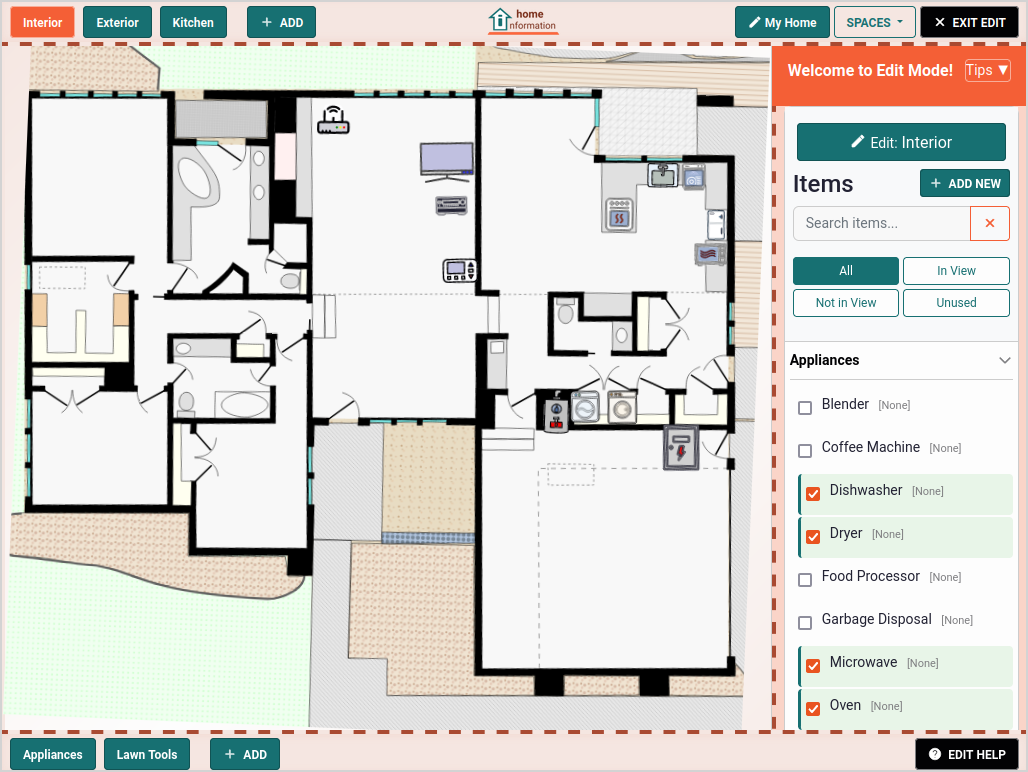
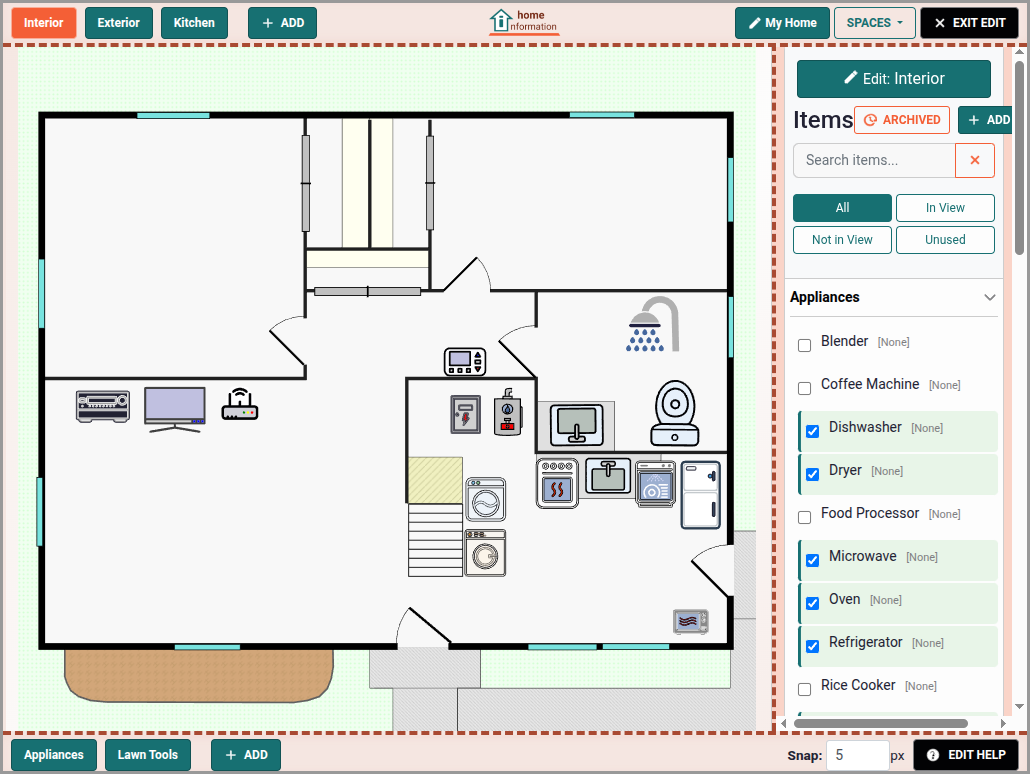
Updated screenshots and markdown files for new SVG background editor.

diff --git a/docs/Editing.md b/docs/Editing.md
@@ -1,8 +1,8 @@
 <img src="../src/hi/static/img/hi-logo-w-tagline-197x96.png" alt="Home Information Logo" width="128">
 
-# Layout Editor
+# Item Layout Editor
 
-This page provides an overview of the editing mode features and basic operations. Editing mode is not the main mode used day-to-day. It is only used to initially setup you home and then occasionally to adjust the layout and add/remove items.
+This page provides an overview of the item editing mode features and basic operations. Editing mode is not the main mode used day-to-day. It is only used to initially setup you home and then occasionally to adjust the layout and add/remove items.
 
 You enter edit mode with the "EDIT" button near the top right of the screen.
 
@@ -118,11 +118,9 @@ Below is the Attic space's view after using a custom SVG background and adding t
 
 ## Custom Background Images
 
-When creating a new space, you get the option to add a custom background image. However, you can also change the background image at any time by choosing "EDIT" by the space name.
+When creating a new space, you get a blank floor plan background to start. You can then customize this by using the Background Editor, choosing from a list of predefined templates or even upload your own SVG background image.
 
-<img src="img/editing/location-layout-edit-button-1024x768.png" alt="location-layout-edit-button-1024x768.png" width="250" />
-
-<img src="img/editing/location-layout-edit-1024x768.png" alt="location-layout-edit-1024x768.png" width="400" />
+<img src="img/editing/location-layout-edit-button-1024x768.png" alt="location-layout-edit-button-1024x768.png" width="250" /> &nbsp; <img src="img/editing/location-layout-edit-1024x768.png" alt="location-layout-edit-1024x768.png" width="400" />
 
 
-To create your own custom background image, see the [Custom Background Image Page](CustomBackgrounds.md).
+For more details, see the [Custom Background Image Page](CustomBackgrounds.md).

diff --git a/docs/GettingStarted.md b/docs/GettingStarted.md
@@ -6,7 +6,7 @@ Once successfully running (see the [Installation Page](Installation.md)), you wi
 
 <img src="img/getting-started/start-page-1024x768.png" alt="Home Information Start Page" width="400"> 
 
-Choose which home type you want to use. If you choose "Single Story", you will see this initial screen with some common household items pre-populated.
+Choose which home type you want to use. If you choose "Two Story", you will see this initial screen with some common household items pre-populated.
 
 <img src="img/getting-started/initial-view-1024x768.png" alt="initial-view-1024x768" width="400" />
 
@@ -30,7 +30,7 @@ Some information may not be associated with an individual item, but the home ove
 
 ## Multiple Spaces
 
-If you have a multi-story house, basement, attic or even another vacation home or second property, you can create a different "space" for that.  Here we have an extra space defined for the attic.
+If you have a multi-story house, basement, attic or even another vacation home or second property, you can create a different "space" for that.  Here we have an extra space defined for the second floor rooms and crawl spaces.
 
 <img src="img/getting-started/spaces-dropdown-1024x768.png" alt="spaces-dropdown-1024x768" width="250" /> &nbsp; <img src="img/getting-started/view-second-space-1024x768.png" alt="view-second-space-1024x768" width="300" />
 

diff --git a/docs/dev/Setup.md b/docs/dev/Setup.md
@@ -204,17 +204,21 @@ make docker-run                    # Background
 make docker-stop
 ```
 
-### Documentation
+### Documentation Preview
 
-Use `grip` for previewing GitHub markdown documents locally.
+To preview GitHub-flavored markdown locally before committing, we recommend
+VS Code with the
+[Markdown Preview Github Styling](https://marketplace.visualstudio.com/items?itemName=bierner.markdown-preview-github-styles)
+extension. It renders markdown with GitHub's CSS locally — no API calls or
+additional dependencies needed.
 
-```
-sudo apt install grip
-cd $PROJ_DIR
-grip
+If you already use VS Code for this project, install the extension and open
+any `.md` file with `Ctrl+Shift+V` to preview (or `Ctrl+K V` for side-by-side).
 
-# Then visit:
-http://localhost:6419
+If you use a different editor for development, you can open this project in
+a separate VS Code window just for markdown editing:
+```bash
+code -n $PROJ_DIR
 ```
 
 ## Getting Started

diff --git a/README.md b/README.md
@@ -49,7 +49,7 @@ The install script automatically handles everything: Docker setup verification, 
 **Visual Organization:**
 - Position items exactly where they belong on floor plans or property maps
 - Create multiple views (whole house, kitchen only, security zones, etc.)
-- Upload custom background images of your actual property
+- Customize the floor plan to match your home and property
 
 **Home Automation Integration:**
 - Control lights, switches, and devices through [Home Assistant](docs/Integrations.md)
